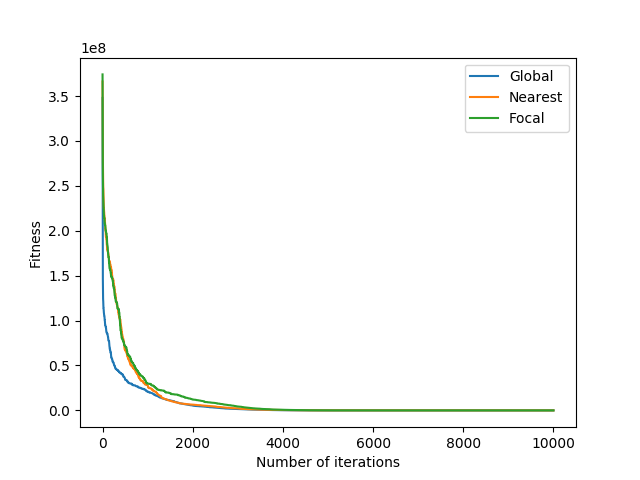
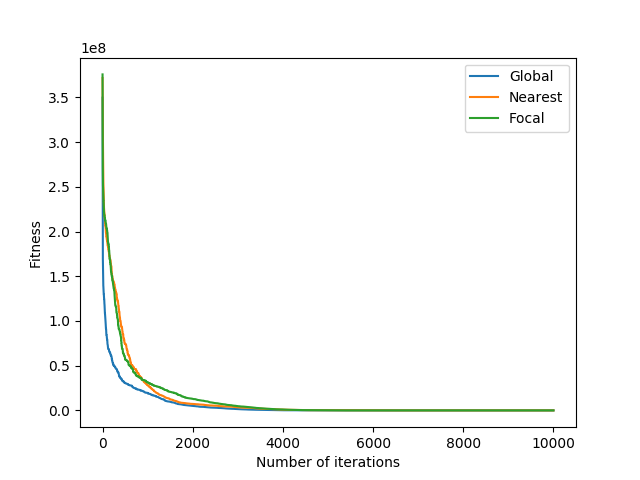
latest nearest results

diff --git a/exercise_pso.py b/exercise_pso.py
@@ -31,7 +31,7 @@ inertia_strategies = [
 
 communication_strategies = [
     Communication.fully_connected(),
-    Communication.nearest_connected(n_neighbors=3),
+    Communication.nearest_connected(n_neighbors=2),
     # Communication.socially_connected(),
     Communication.focal_connected()
 ]
